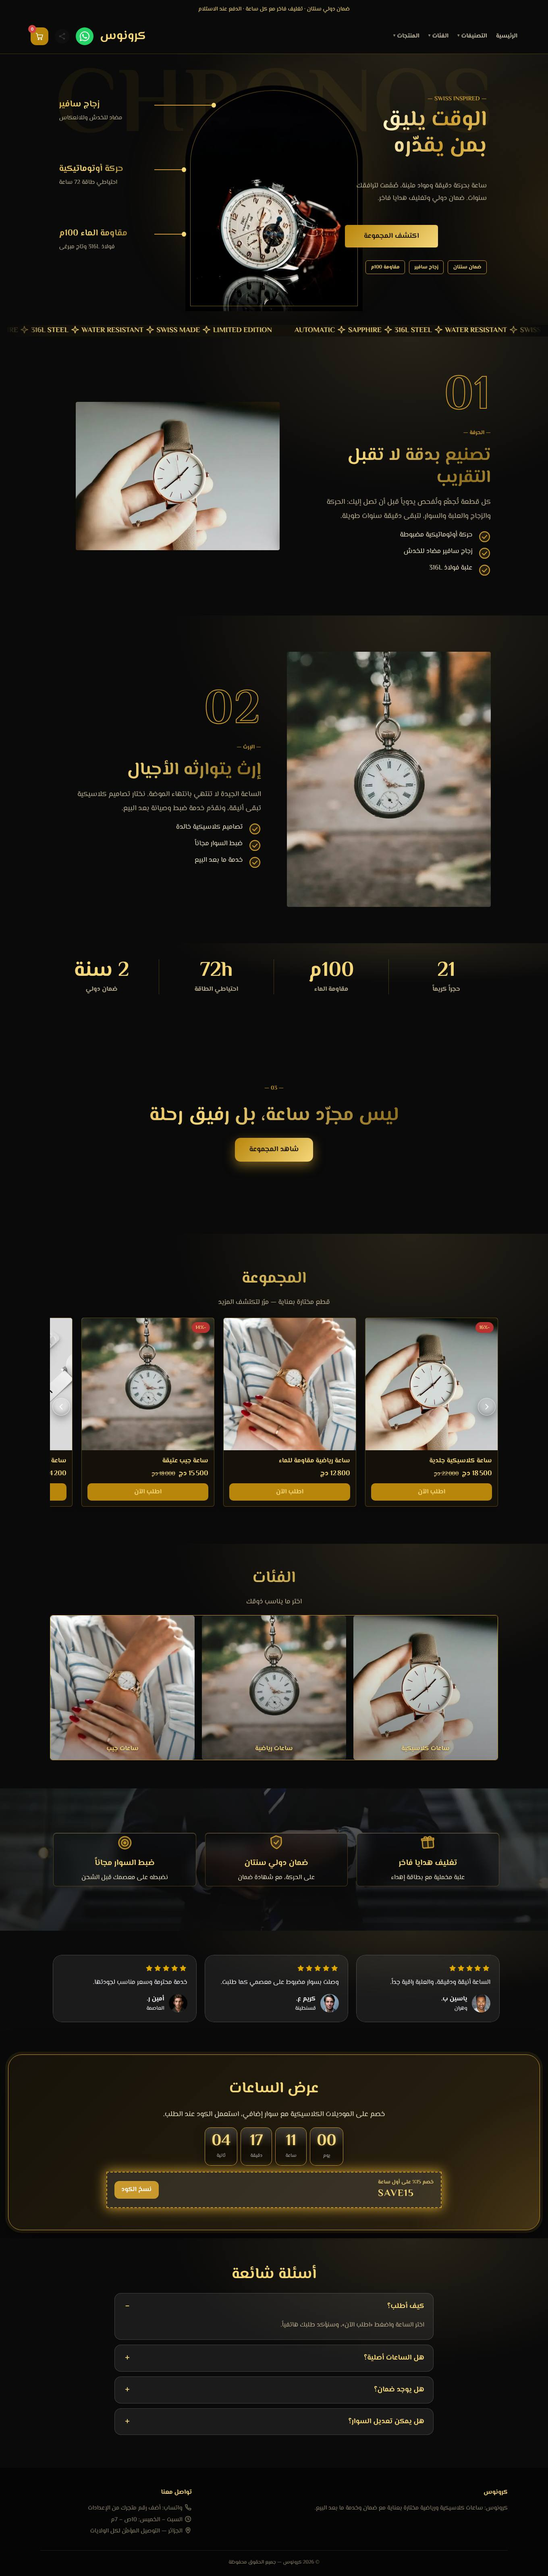
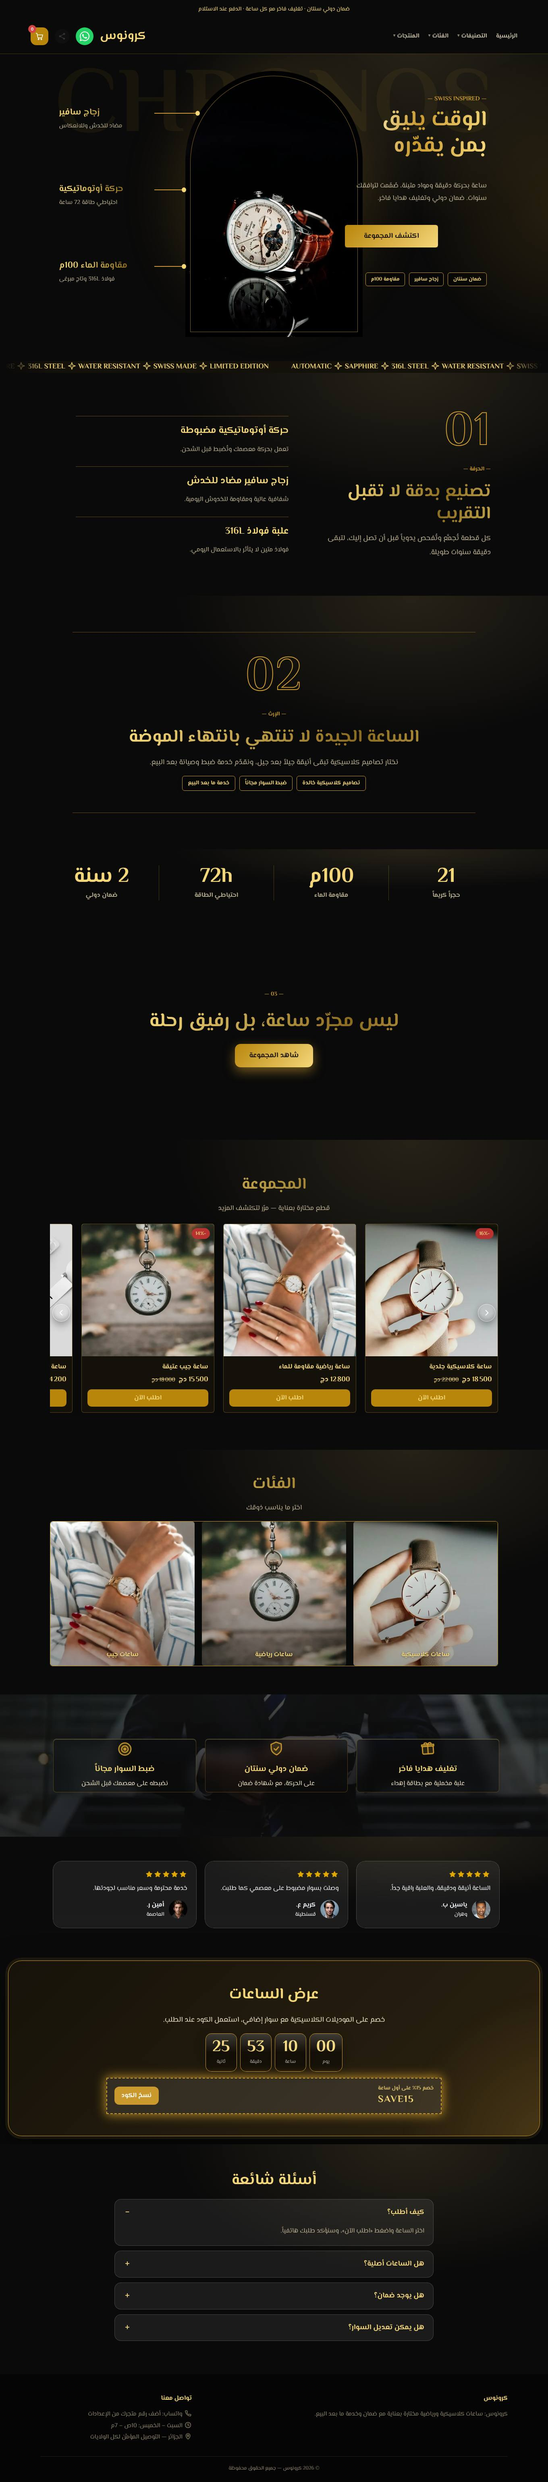
docs+thumbs: تقرير القبول النهائي ولقطات التجربتين بعد القرارات المعتمدة
Claude-Session: https://claude.ai/code/session_0141cZSU8KsZF3m8G44FMnJF

diff --git a/docs/pilots/ACCEPTANCE-REPORT.md b/docs/pilots/ACCEPTANCE-REPORT.md
@@ -1,0 +1,30 @@
+# تقرير القبول النهائي — تجربتا s-watches وs-tech
+
+الفرع `feature/alyssum-theme-studio` (لا دمج في `main`). النطاق: القالبان فقط (+ معاينتاهما المصغّرتان وسطرا `index.json`)؛ لم يُمسّ `s-alyssum` ولا أي قالب آخر ولا أي مولّد آخر (`git diff --stat c83b917 HEAD -- assets scripts`: الملفات أعلاه فقط + `test-shipagg.js` لالتزام CI المنفصل).
+
+## القرارات المعتمدة وما نُفّذ
+- **s-watches:** لا تكرار لـ`watch_hand` و`watch_pocket` فوق الأصل (مرتان: منتج + بلاطة كالأصل). بحثتُ عن صورتين ساعاتيتين بديلتين فلم توجد في المكتبة (التفصيل في `IMAGE-AUDIT.md`)، فصار الفصلان تركيبتين تحريريتين نصيّتين. المنتجات الستة والبلاطات الثلاث الأصلية محفوظة.
+- **الإضافات المعتمدة** تكمّل ولا تحلّ محل شيء: `men_watch`، `men_suit` (s-watches)؛ `gad_vr`، `gad_watch`، `gad_vr2`، `dig_code`، `it_dark` (s-tech).
+
+## الفحوص النهائية
+| # | الفحص | الأداة | النتيجة |
+|---|---|---|---|
+| 1 | مراجع المنتجات والفئات الأصلية (اسم/سعر/صورة/ترتيب) | `tests/pilot-image-audit.py` | ✓ |
+| 2 | النسب ونقاط التركيز الافتراضية = نسب الصور الطبيعية و50% 50% (هيرو s-tech 1000/1250، قوس s-watches 440/660 ≈ 800/1198 بتقريب 1، بطاقات/بلاطات 1:1) | نفسه | ✓ |
+| 3 | سلوك اللافتة الأصلي (`bgImg/bgSize/bgPos/grad/bgFixed` + `background-attachment: fixed` مرسوم) | الثابت + `tests/pilot-library-replace.js` | ✓ |
+| 4 | استبدال الصور عبر مكتبة الوسائط الحقيقية (الهيرو في القالبين + خلفية اللافتة): تتبدّل وتُرسم، الإطار بلا تغيّر، Ctrl+Z يعيد الأصل | `tests/pilot-library-replace.js` | 24/24 ✓ |
+| 5 | لا تكرار غير لازم؛ لا صور خارج الأصل والإضافات؛ ملفات الصور متطابقة بايتاً | `tests/pilot-image-audit.py` | 33/33 ✓ |
+| 6 | استقلال تحرير كل العناصر (تحديد/سحب/تحجيم/تدوير/تكرار/إخفاء/قفل) | `tests/pilot-editability.js` | 16/16 ✓ (+1 غير منطبق موثَّق) |
+| — | بطارية القبول الكاملة (حفظ/إعادة فتح/حركات/متجر/طلب حقيقي) | `tests/free-elements-qa.js` | 82/82 ✓، 0 أخطاء JS |
+| — | صمود الإطارات: كل الصور بصور اصطناعية بأبعاد مختلفة (توزيعان) | عرض + مقارنة ارتفاع الصفحة | متطابق (s-watches 6158/6918، s-tech 6420/9512)، بلا تعدٍّ أفقي |
+| — | التجاوب 1360/820/390 | عرض | `overflow=0` |
+| — | مكتبة القوالب (صور ومعاينات) | `scripts/test-templates.js` | ✓ |
+
+## لم يُجرَّب
+- تثبيت القالبين على متجر حقيقي بمنتجات صاحبه وصوره (تبويبات «حسب الفئة» تحتاج مفاتيح `cat` في المنتجات).
+- أجهزة لمس حقيقية، ومتصفحات غير Chromium.
+- لم أرفع رقم `V` في `admin-nav.js` (ملف مشترك مع كل العملاء) فقد تبقى المعاينات المصغّرة القديمة في كاش المتصفح مدة.
+- الاختباران الجديدان والبطارية خارج CI (تحتاج متجر PHP مثبَّتاً). وCI فيه 4 إخفاقات قائمة غير مرتبطة بالقوالب (`docs/CI-DIAGNOSIS-2026-11.md` §5).
+
+## الصور
+`docs/pilots/<القالب>/`: `compare-*` (قبل/بعد: الشاشة الأولى، الصفحة كاملة سطح مكتب وجوال)، `tablet-top.jpg`، `image-swap-test.jpg`، `library-replace-before-after.jpg`، و`banner-bgfixed-viewport.jpg` (s-watches).
